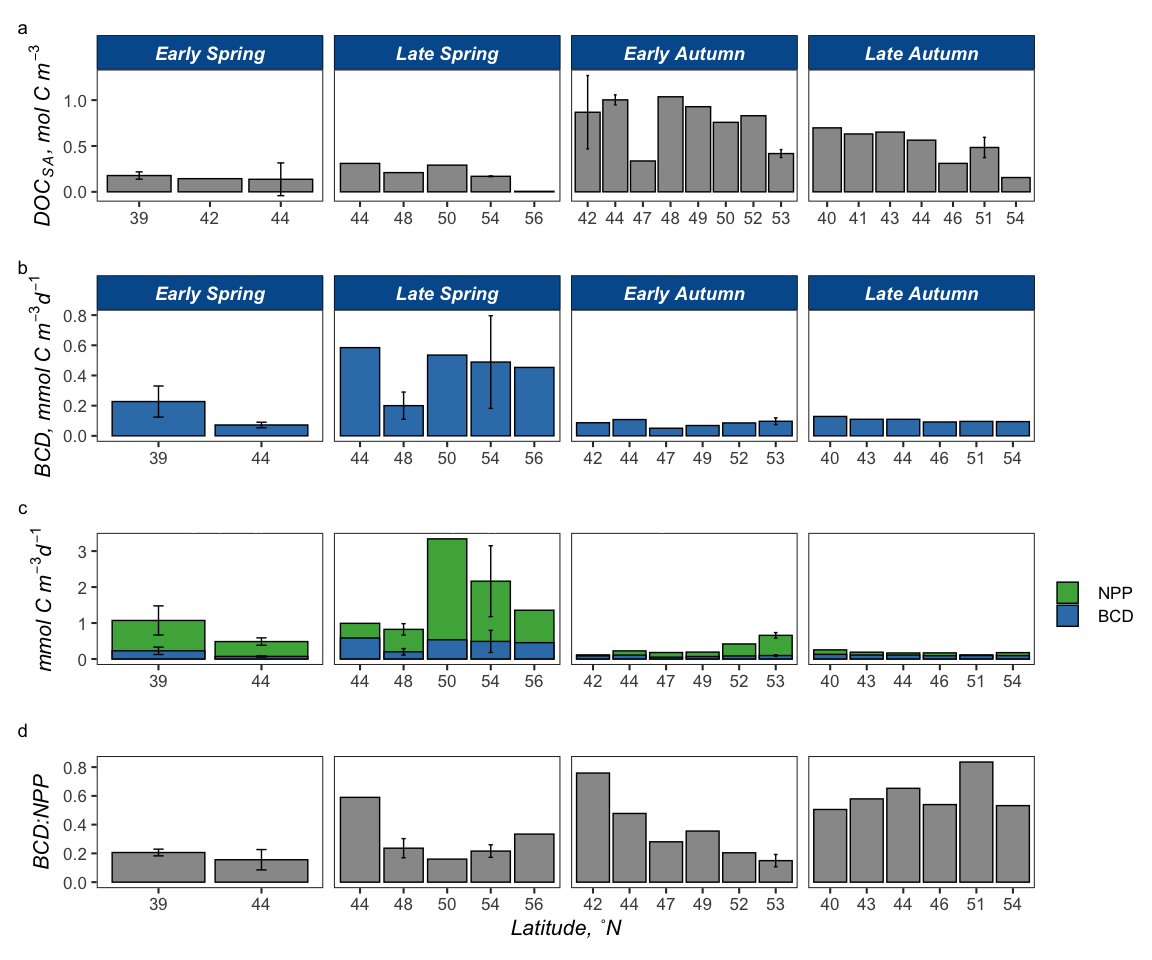
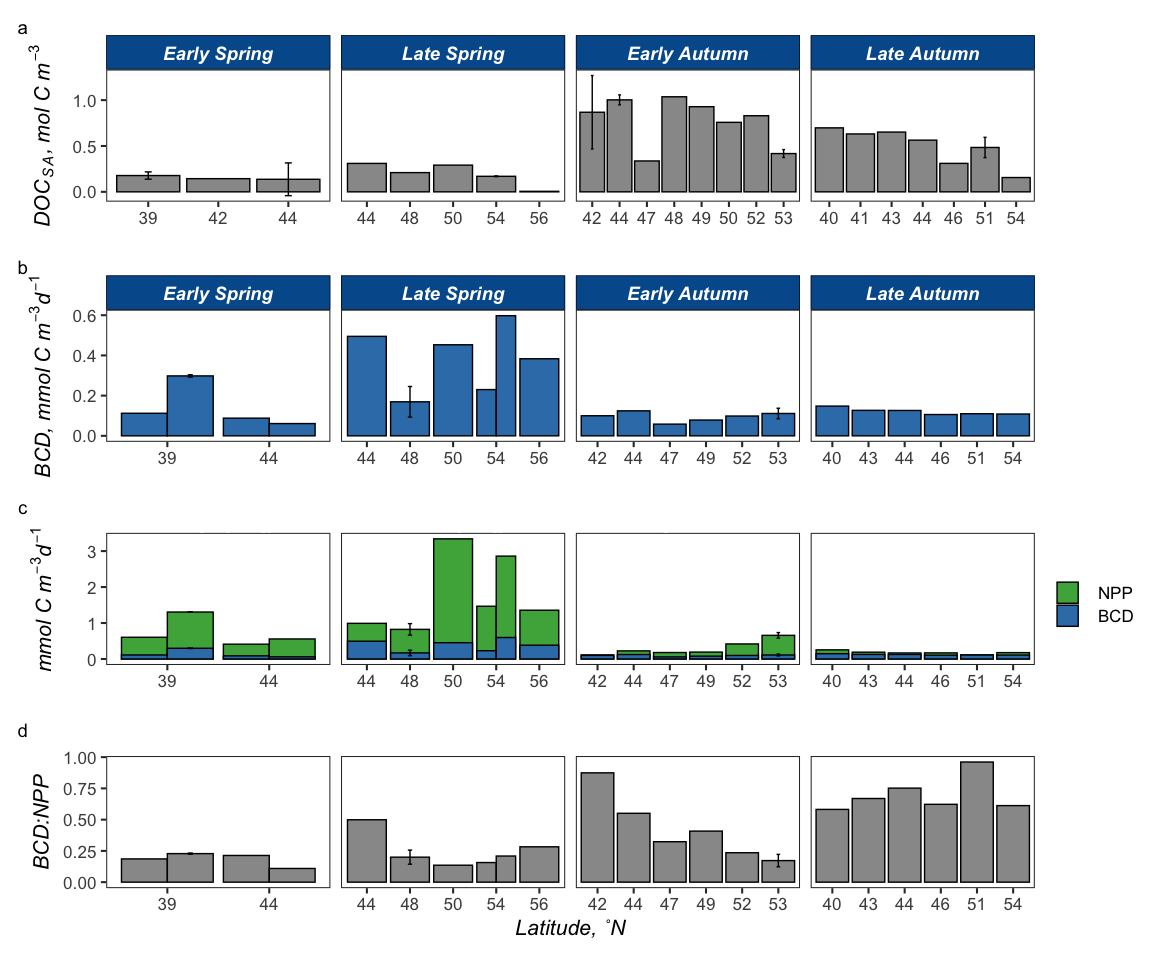
update figs

diff --git a/rmd/BCD_DOC-Bioavailability.md b/rmd/BCD_DOC-Bioavailability.md
@@ -321,9 +321,9 @@ ba_curves <- bge %>%
   drop_na(norm_cells) %>% 
   # filter(!Cruise == "AT34" | !Station == 3) %>% #did not calc bge or cell resp due to data coming from post stationary
   ggplot(aes(x = Days, y = norm_cells, group = interaction(Season, Station))) +
-  geom_errorbar(aes(ymin = norm_cells - sd_norm_cells, ymax = norm_cells + sd_norm_cells, color = factor(Season, levels = levels)), width = 0.3, alpha = 0.4) +
-  geom_line(aes(color = factor(Season, levels = levels), linetype = Station), alpha = 0.5) +
-  geom_point(aes(fill = factor(Season, levels = levels)), shape = 21, alpha = 0.5) +
+  geom_errorbar(aes(ymin = norm_cells - sd_norm_cells, ymax = norm_cells + sd_norm_cells, color = factor(Season, levels = levels)), width = 0.3, alpha = 0.5) +
+  geom_line(aes(color = factor(Season, levels = levels), linetype = Station), alpha = 0.7) +
+  geom_point(aes(fill = factor(Season, levels = levels)), shape = 21, alpha = 0.7) +
   scale_color_manual(values = custom.colors) +
   scale_fill_manual(values = custom.colors) +
  labs(x = expression(italic("Days")), y = expression(italic(paste("∆ Cells, L"^-1)))) +
@@ -340,9 +340,9 @@ doc_curves <-  bge %>%
   drop_na(sd_combined_doc) %>% 
   # filter(!Cruise == "AT34" | !Station == 3) %>% #did not calc bge or cell resp due to data coming from post stationary
   ggplot(aes(x = Days, y = norm_doc, group = interaction(Season, Station))) +
-  geom_errorbar(aes(ymin = norm_doc - sd_norm_doc, ymax = norm_doc + sd_norm_doc, color = factor(Season, levels = levels)), width = 0.3, alpha = 0.4) +
-  geom_line(aes(color = factor(Season, levels = levels), linetype = Station), alpha = 0.5) +
-  geom_point(aes(fill = factor(Season, levels = levels)), shape = 21, alpha = 0.5) +
+  geom_errorbar(aes(ymin = norm_doc - sd_norm_doc, ymax = norm_doc + sd_norm_doc, color = factor(Season, levels = levels)), width = 0.3, alpha = 0.5) +
+  geom_line(aes(color = factor(Season, levels = levels), linetype = Station), alpha = 0.7) +
+  geom_point(aes(fill = factor(Season, levels = levels)), shape = 21, alpha = 0.7) +
   scale_color_manual(values = custom.colors) +
   scale_fill_manual(values = custom.colors) +
  labs(x = expression(italic("Days")), y = expression(italic(paste("∆ DOC, µmol C L"^-1)))) +
@@ -352,9 +352,10 @@ doc_curves <-  bge %>%
 ```
 
 ``` r
-ba_curves | doc_curves + 
-  plot_layout(guides = "collect", tag_level = "new") &
-  theme(plot.tag = element_text(size = 14)) 
+ba_curves + doc_curves + 
+   plot_annotation(tag_levels = "a") &
+  plot_layout(guides = "collect") +
+  theme(plot.tag = element_text(size = 14))
 ```
 
 ![](BCD_DOC-Bioavailability_files/figure-gfm/unnamed-chunk-9-1.png)<!-- -->
@@ -371,7 +372,7 @@ bge <- bge_summary %>%
             xlab = F,
             ylab = expression(italic("BGE")),
             add = "jitter",
-            add.params = list(shape = 21, fill = "Station"), 
+            add.params = list(shape = 21, size = 4, fill = "Station"), 
             outlier.shape = NA,
             width = 0.5,
             ggtheme = theme_classic2(base_size = 16)) + 
@@ -391,7 +392,7 @@ resp <- bge_summary %>%
             xlab = F,
             ylab = expression(italic("Cell Specific Respiration, fmol C L"^-1)),
             add = "jitter",
-            add.params = list(shape = 21, fill = "Station"), 
+            add.params = list(shape = 21, size = 4, fill = "Station"), 
             outlier.shape = NA,
             width = 0.5,
             ggtheme = theme_classic2(base_size = 16)) + 
@@ -403,9 +404,10 @@ resp <- bge_summary %>%
 ```
 
 ``` r
-bge | resp + 
-  plot_layout(guides = "collect", tag_level = "new") &
-  theme(plot.tag = element_text(size = 14)) 
+bge + resp  + 
+   plot_annotation(tag_levels = "a") &
+  plot_layout(guides = "collect") +
+  theme(plot.tag = element_text(size = 14))
 ```
 
 ![](BCD_DOC-Bioavailability_files/figure-gfm/unnamed-chunk-12-1.png)<!-- -->
@@ -414,27 +416,53 @@ bge | resp +
 
 ![](BCD_DOC-Bioavailability_files/figure-gfm/Remin%20plots-1.png)<!-- -->
 
-# Bioavailability Tables
+# Bioavailability & BGE Tables
 
 ``` r
+bge.table.data <- bge_summary %>% 
+  group_by(Cruise, Season, Station, degree_bin) %>% 
+  summarize_at(vars(del.cells:cell_resp), list(mean = mean, sd = sd), na.rm = T)  %>% 
+  arrange(factor(Season, levels = levels), degree_bin)
+
+bge.table.data2 <- bge_summary %>% 
+  group_by(Cruise, Season) %>% 
+  summarize_at(vars(del.cells:cell_resp), list(mean = mean, sd = sd), na.rm = T)  %>% 
+  arrange(factor(Season, levels = levels))
+
 bioav.table.data <- export_bioav %>% 
   select(Cruise:Station, degree_bin, end.remin, stationary.harvest, initial.doc:longterm.ddoc) %>% 
-  distinct() %>% 
-  group_by(Season, Cruise, Station, degree_bin)
+  mutate(shortterm.del.doc = ifelse(shortterm.del.doc < 2, NA, shortterm.del.doc),
+         shortterm.bioav.doc = ifelse(is.na(shortterm.del.doc), NA, shortterm.bioav.doc),
+         shortterm.ddoc = ifelse(is.na(shortterm.del.doc), NA, shortterm.ddoc),
+         
+         longterm.del.doc = ifelse(end.remin < 10, NA, longterm.del.doc),
+          longterm.bioav.doc = ifelse(is.na( longterm.del.doc), NA,  longterm.bioav.doc),
+          longterm.ddoc = ifelse(is.na( longterm.del.doc), NA,longterm.ddoc),
+         
+         
+         persis.doc = ifelse(persis.doc < 2, NA, persis.doc),
+         
+         percent_persis.doc = ifelse(is.na(persis.doc), NA, percent_persis.doc)) 
 
-bioav.table <- bioav.table.data %>% 
-  summarise_at(vars(initial.doc:longterm.ddoc), list(mean = mean, sd = sd), na.rm = T) %>% 
+station_bioav <- bioav.table.data %>% 
+ group_by(Cruise, Season, Station, degree_bin) %>% 
+  summarize_at(vars(initial.doc:longterm.ddoc), list(mean = mean, sd = sd), na.rm = T)  %>% 
   arrange(factor(Season, levels = levels), degree_bin) %>% 
-  select(Season:degree_bin, contains(c("accm.doc", "shortterm.bioav.doc", "shortterm.ddoc", "longterm.del.doc",  "longterm.bioav.doc", "longterm.ddoc",  "persis") ))
+  ungroup()
 
-bioav.table.summary <- bioav.table %>% 
-  ungroup() %>% 
-  group_by(Season) %>% 
-  summarise_at(vars(contains("mean")), list(season.ave = mean, sd.season = sd), na.rm = T) %>% 
-  arrange(factor(Season, levels = levels))
+cruise_bioav <- bioav.table.data %>% 
+ group_by(Cruise, Season) %>% 
+  summarize_at(vars(initial.doc:longterm.ddoc), list(mean = mean, sd = sd), na.rm = T)  %>% 
+  arrange(factor(Season, levels = levels)) %>% 
+  ungroup() 
+
+time <- export_bioav %>% 
+  select(Season, Cruise, degree_bin, Station, Bottle, stationary.harvest, end.remin) %>% 
+  arrange(factor(Season, levels = levels), degree_bin) %>% 
+  ungroup()
 ```
 
-# Box plots: NPP, BP, BA, µ
+# Box plots: NPP, BP, BA
 
 <img src="BCD_DOC-Bioavailability_files/figure-gfm/patchwork rate & abundance plots-1.png" style="display: block; margin: auto;" />
 
@@ -444,43 +472,48 @@ Convert BCD and NPP to mmol C m<sup>-3</sup> d<sup>-1</sup>
 
 ``` r
 bcd.data <- bcd %>% 
-  select(Season, Cruise:degree_bin, int.bcd, int.bp, int.NPP, bp.npp, bcd.npp) %>% 
+  select(Season, Cruise:degree_bin, Station, int.bcd, int.bcd_global, int.bp, int.NPP, bp.npp, bcd.npp, bcd.npp_global) %>% 
   distinct() %>% 
-  mutate_at(vars(int.bcd, int.bp, int.NPP), funs(./10^3)) %>% 
-  mutate_at(vars(bp.npp, bcd.npp), funs(./10^2)) %>% 
+  mutate_at(vars(int.bcd, int.bcd_global, int.bp, int.NPP), funs(./10^3)) %>% 
+  mutate_at(vars(bp.npp, bcd.npp, bcd.npp_global), funs(./10^2)) %>% 
   mutate(degree_bin = as.character(degree_bin)) 
 
 bcd.summary <- bcd.data %>% 
-  group_by(Season, Cruise, degree_bin) %>% 
-  summarise_at(vars(int.bcd, int.bp, int.NPP, bp.npp, bcd.npp), list(mean = mean, sd = sd)) %>% 
+  group_by(Season, Cruise, Station, degree_bin) %>% 
+  summarise_at(vars(int.bcd_global, int.bp, int.NPP, bp.npp, bcd.npp_global), list(mean = mean, sd = sd)) %>% 
   arrange(factor(Season, levels = levels), degree_bin) %>% 
   select(Season:degree_bin, contains(c("int.NPP", "int.bp", "bp.npp", "int.bcd", "bcd.npp")))
   
 bcd.cruise.summary <- bcd.data %>% 
   group_by(Season, Cruise) %>% 
-  summarise_at(vars(int.bcd, int.bp, int.NPP, bp.npp, bcd.npp), list(cruise_mean = mean, cruise_sd = sd, cruise_max = max, cruise_min = min)) %>% 
+  summarise_at(vars(int.bcd_global, int.bp, int.NPP, bp.npp, bcd.npp_global), list(cruise_mean = mean, cruise_sd = sd, cruise_max = max, cruise_min = min)) %>% 
   arrange(factor(Season, levels = levels)) %>% 
   select(Season, contains(c("int.NPP", "int.bp", "bp.npp", "int.bcd", "bcd.npp")))
 
 bcd.overall.summary <- bcd.data %>% 
-  summarise_at(vars(int.bcd, int.bp, int.NPP, bp.npp, bcd.npp), list(overall_mean = mean, overall_sd = sd, max = max, min = min))
+  summarise_at(vars(int.bcd_global, int.bp, int.NPP, bp.npp, bcd.npp_global), list(overall_mean = mean, overall_sd = sd, max = max, min = min))
 
 bcd.npp.summary <- bcd.summary %>% 
-  select(Season, Cruise, degree_bin, int.NPP_mean, int.bcd_mean) %>% 
+  select(Season, Cruise,  degree_bin, int.NPP_mean, int.bcd_global_mean) %>% 
   rename(NPP = int.NPP_mean,
-         BCD = int.bcd_mean) %>% 
+         BCD = int.bcd_global_mean) %>% 
   pivot_longer(c(NPP, BCD), names_to = "rate", values_to = "ave") %>% 
   left_join(., bcd.summary %>% 
-  select(Season, Cruise, degree_bin, int.NPP_sd, int.bcd_sd) %>% 
+  select(Season, Cruise, degree_bin,  int.NPP_sd, int.bcd_global_sd) %>% 
     rename(NPP = int.NPP_sd,
-         BCD = int.bcd_sd) %>% 
+         BCD = int.bcd_global_sd) %>% 
   pivot_longer(c(NPP, BCD), names_to = "rate", values_to = "sd"))
 ```
 
-    ## Joining, by = c("Season", "Cruise", "degree_bin", "rate")
+    ## Adding missing grouping variables: `Station`
+    ## Adding missing grouping variables: `Station`
+
+    ## Joining, by = c("Station", "Season", "Cruise", "degree_bin", "rate")
 
 ``` r
-bcd.npp_summary_table <- left_join(bcd.summary, bcd.cruise.summary)
+bcd.npp_summary_table <- left_join(bcd.summary, bcd.cruise.summary) %>% 
+  mutate_at(vars(contains(c("int.NPP", "int.bp", "int.bcd"))), round, 3) %>% 
+  mutate_at(vars(contains(c("bp.npp", "bcd.npp"))), round, 2)
 ```
 
     ## Joining, by = "Season"
@@ -524,7 +557,7 @@ field.doc_table
 ### exponential model using lm function
 
 ``` r
-reg2 <- lm(log(bcd.npp) ~ int.NPP, data = bcd.data)
+reg2 <- lm(log(bcd.npp_global) ~ int.NPP, data = bcd.data)
 
 reg2.df <- data.frame(x = bcd.data$int.NPP, y = exp(fitted(reg2)))
 ```
@@ -535,17 +568,17 @@ y = alpha \* (e^beta \* x) + theta
 
     ## $alpha
     ## (Intercept) 
-    ##   0.2805044 
+    ##    0.312114 
     ## 
     ## $beta
     ##    int.NPP 
-    ## -0.3326912 
+    ## -0.4936019 
     ## 
     ## $theta
-    ## [1] 0.03992136
+    ## [1] 0.04601972
 
 ``` r
-model <- nls(bcd.npp ~ alpha * exp(beta * int.NPP) + theta , data = bcd.data, start = start)
+model <- nls(bcd.npp_global ~ alpha * exp(beta * int.NPP) + theta , data = bcd.data, start = start)
 
 model.df <- data.frame(x = bcd.data$int.NPP, y = predict(model, list(x = bcd.data$int.NPP)) )
 
@@ -553,20 +586,20 @@ summary(model)
 ```
 
     ## 
-    ## Formula: bcd.npp ~ alpha * exp(beta * int.NPP) + theta
+    ## Formula: bcd.npp_global ~ alpha * exp(beta * int.NPP) + theta
     ## 
     ## Parameters:
-    ##        Estimate Std. Error t value Pr(>|t|)    
-    ## alpha   1.85123    0.73288   2.526 0.016862 *  
-    ## beta  -10.22769    2.73787  -3.736 0.000757 ***
-    ## theta   0.21708    0.02325   9.338  1.6e-10 ***
+    ##       Estimate Std. Error t value Pr(>|t|)    
+    ## alpha  1.94713    0.54626   3.564   0.0012 ** 
+    ## beta  -8.89252    1.90546  -4.667 5.57e-05 ***
+    ## theta  0.20132    0.02245   8.969 4.03e-10 ***
     ## ---
     ## Signif. codes:  0 '***' 0.001 '**' 0.01 '*' 0.05 '.' 0.1 ' ' 1
     ## 
-    ## Residual standard error: 0.1083 on 31 degrees of freedom
+    ## Residual standard error: 0.1012 on 31 degrees of freedom
     ## 
     ## Number of iterations to convergence: 11 
-    ## Achieved convergence tolerance: 2.493e-06
+    ## Achieved convergence tolerance: 3.152e-06
 
 ## Plots
 
